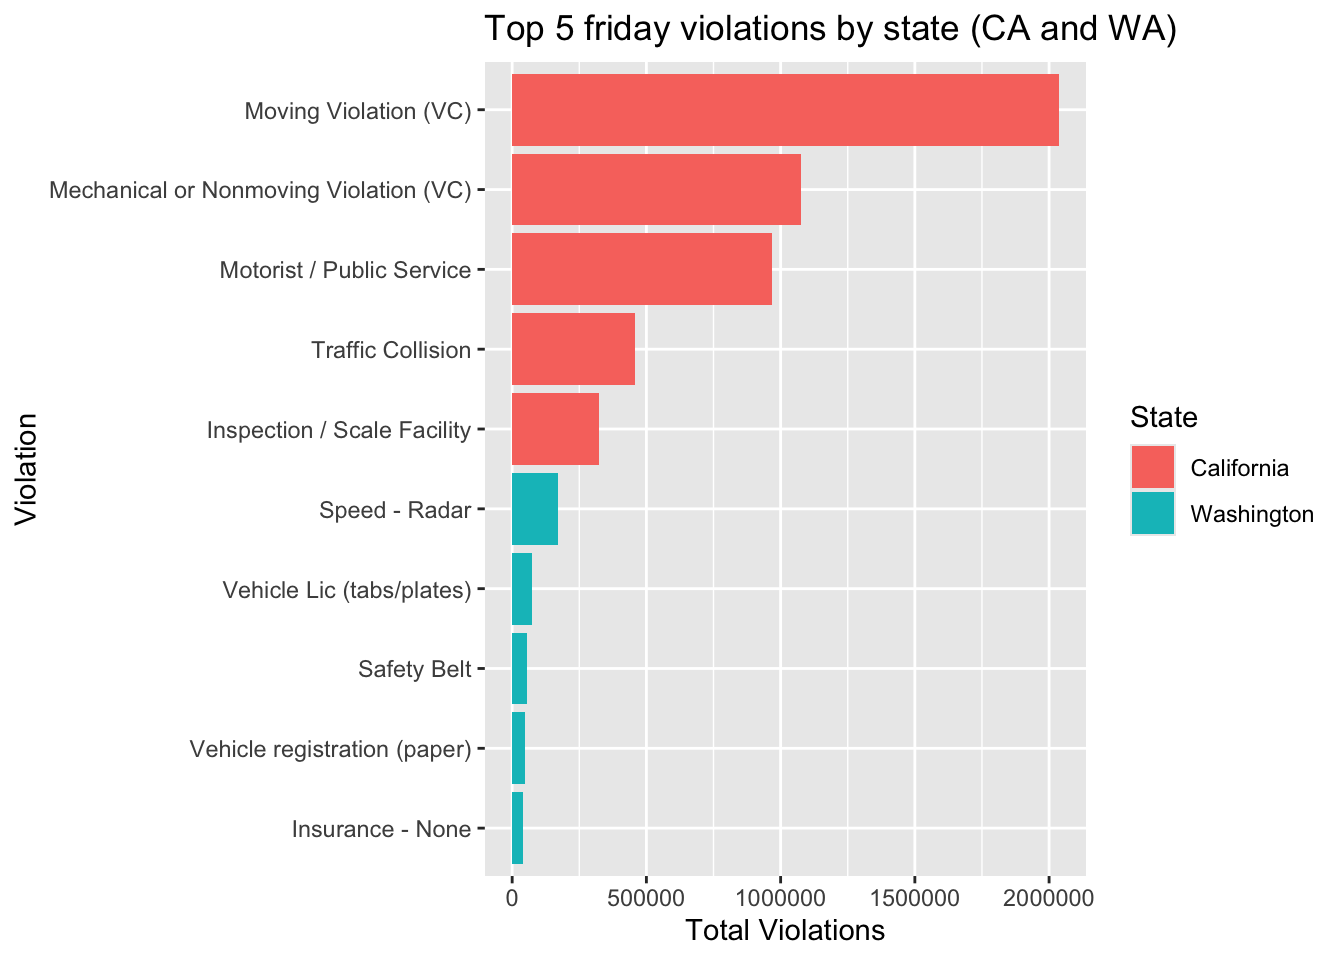
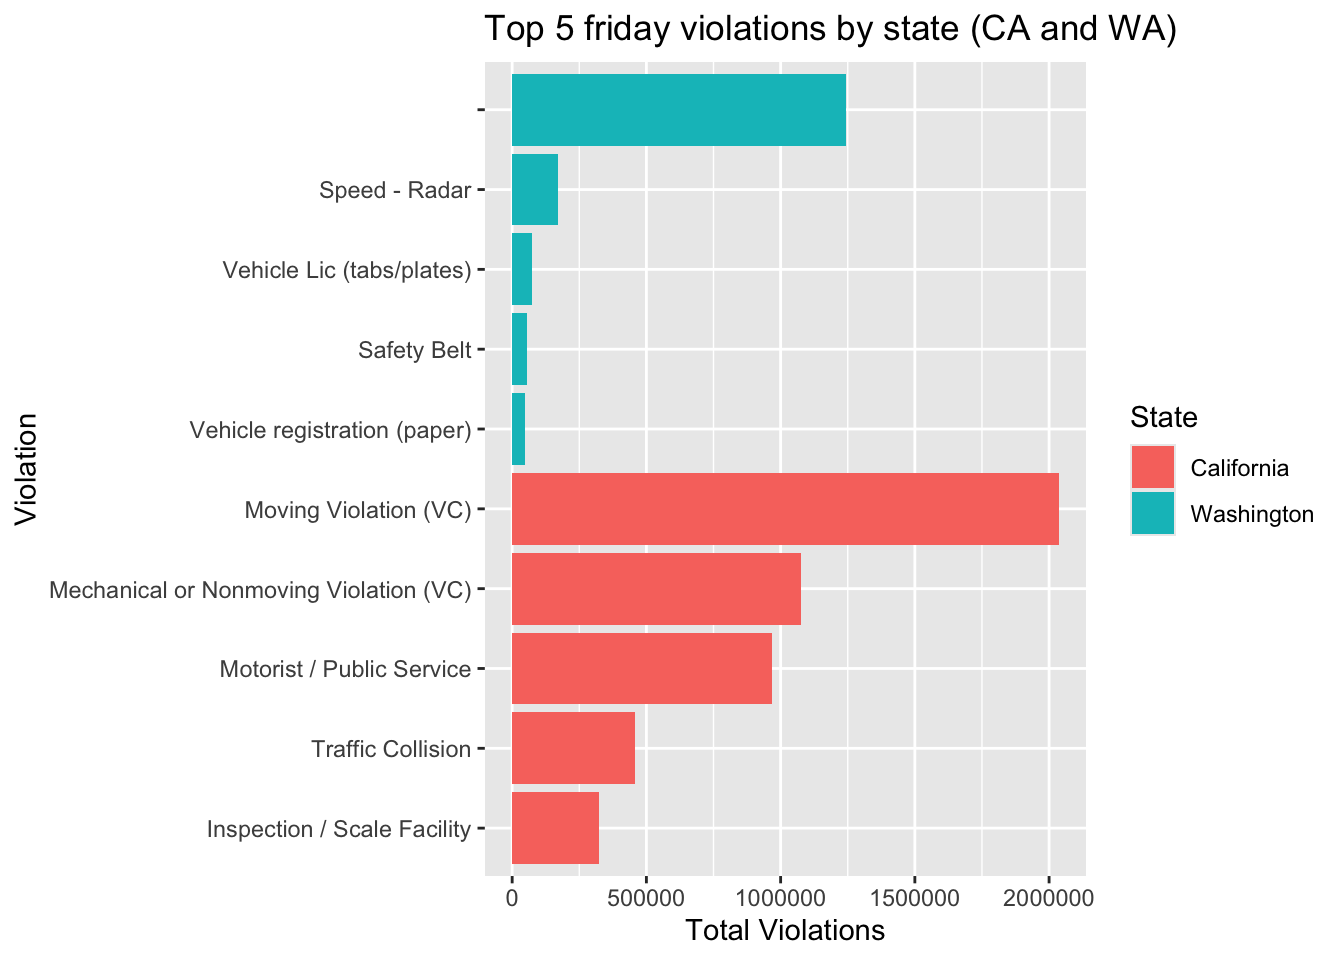
final!! actually final version!

diff --git a/docs/traffic_stops.html b/docs/traffic_stops.html
@@ -1025,41 +1025,36 @@ pre > code.sourceCode > span > a:first-child::before { text-decoration: underlin
 </div>
 </div>
 <p>With all of this information, we now need to join these 3 tables so we can do our west coast analysis.</p>
-<div class="cell">
-<div class="code-copy-outer-scaffold"><div class="sourceCode cell-code" id="cb11"><pre class="sourceCode r code-with-copy"><code class="sourceCode r"><span id="cb11-1"><a href="#cb11-1" aria-hidden="true" tabindex="-1"></a>ca_or_wa_weekday <span class="ot">&lt;-</span> <span class="fu">dbGetQuery</span>(</span>
-<span id="cb11-2"><a href="#cb11-2" aria-hidden="true" tabindex="-1"></a>  con_traffic,</span>
-<span id="cb11-3"><a href="#cb11-3" aria-hidden="true" tabindex="-1"></a>  <span class="st">"</span></span>
-<span id="cb11-4"><a href="#cb11-4" aria-hidden="true" tabindex="-1"></a><span class="st">  SELECT</span></span>
-<span id="cb11-5"><a href="#cb11-5" aria-hidden="true" tabindex="-1"></a><span class="st">      'California' AS state,</span></span>
-<span id="cb11-6"><a href="#cb11-6" aria-hidden="true" tabindex="-1"></a><span class="st">      DAYOFWEEK(date) AS weekday,</span></span>
-<span id="cb11-7"><a href="#cb11-7" aria-hidden="true" tabindex="-1"></a><span class="st">      COUNT(*) AS total_stops</span></span>
-<span id="cb11-8"><a href="#cb11-8" aria-hidden="true" tabindex="-1"></a><span class="st">  FROM ca_statewide_2023_01_26</span></span>
-<span id="cb11-9"><a href="#cb11-9" aria-hidden="true" tabindex="-1"></a><span class="st">  WHERE type = 'vehicular'</span></span>
-<span id="cb11-10"><a href="#cb11-10" aria-hidden="true" tabindex="-1"></a><span class="st">  GROUP BY state, DAYOFWEEK(date)</span></span>
-<span id="cb11-11"><a href="#cb11-11" aria-hidden="true" tabindex="-1"></a></span>
-<span id="cb11-12"><a href="#cb11-12" aria-hidden="true" tabindex="-1"></a><span class="st">  UNION ALL</span></span>
-<span id="cb11-13"><a href="#cb11-13" aria-hidden="true" tabindex="-1"></a></span>
-<span id="cb11-14"><a href="#cb11-14" aria-hidden="true" tabindex="-1"></a><span class="st">  SELECT</span></span>
-<span id="cb11-15"><a href="#cb11-15" aria-hidden="true" tabindex="-1"></a><span class="st">      'Oregon' AS state,</span></span>
-<span id="cb11-16"><a href="#cb11-16" aria-hidden="true" tabindex="-1"></a><span class="st">      DAYOFWEEK(date) AS weekday,</span></span>
-<span id="cb11-17"><a href="#cb11-17" aria-hidden="true" tabindex="-1"></a><span class="st">      COUNT(*) AS total_stops</span></span>
-<span id="cb11-18"><a href="#cb11-18" aria-hidden="true" tabindex="-1"></a><span class="st">  FROM or_statewide_2020_04_01</span></span>
-<span id="cb11-19"><a href="#cb11-19" aria-hidden="true" tabindex="-1"></a><span class="st">  WHERE type = 'vehicular'</span></span>
-<span id="cb11-20"><a href="#cb11-20" aria-hidden="true" tabindex="-1"></a><span class="st">  GROUP BY state, DAYOFWEEK(date)</span></span>
-<span id="cb11-21"><a href="#cb11-21" aria-hidden="true" tabindex="-1"></a></span>
-<span id="cb11-22"><a href="#cb11-22" aria-hidden="true" tabindex="-1"></a><span class="st">  UNION ALL</span></span>
-<span id="cb11-23"><a href="#cb11-23" aria-hidden="true" tabindex="-1"></a></span>
-<span id="cb11-24"><a href="#cb11-24" aria-hidden="true" tabindex="-1"></a><span class="st">  SELECT</span></span>
-<span id="cb11-25"><a href="#cb11-25" aria-hidden="true" tabindex="-1"></a><span class="st">      'Washington' AS state,</span></span>
-<span id="cb11-26"><a href="#cb11-26" aria-hidden="true" tabindex="-1"></a><span class="st">      DAYOFWEEK(date) AS weekday,</span></span>
-<span id="cb11-27"><a href="#cb11-27" aria-hidden="true" tabindex="-1"></a><span class="st">      COUNT(*) AS total_stops</span></span>
-<span id="cb11-28"><a href="#cb11-28" aria-hidden="true" tabindex="-1"></a><span class="st">  FROM wa_statewide_2020_04_01</span></span>
-<span id="cb11-29"><a href="#cb11-29" aria-hidden="true" tabindex="-1"></a><span class="st">  WHERE type = 'vehicular'</span></span>
-<span id="cb11-30"><a href="#cb11-30" aria-hidden="true" tabindex="-1"></a><span class="st">  GROUP BY state, DAYOFWEEK(date)</span></span>
-<span id="cb11-31"><a href="#cb11-31" aria-hidden="true" tabindex="-1"></a></span>
-<span id="cb11-32"><a href="#cb11-32" aria-hidden="true" tabindex="-1"></a><span class="st">  ORDER BY weekday, state;</span></span>
-<span id="cb11-33"><a href="#cb11-33" aria-hidden="true" tabindex="-1"></a><span class="st">  "</span></span>
-<span id="cb11-34"><a href="#cb11-34" aria-hidden="true" tabindex="-1"></a>)</span></code></pre></div><button title="Copy to Clipboard" class="code-copy-button"><i class="bi"></i></button></div>
+<div class="cell" data-output.var="ca_or_wa_weekday">
+<div class="code-copy-outer-scaffold"><div class="sourceCode cell-code" id="cb11"><pre class="sourceCode sql code-with-copy"><code class="sourceCode sql"><span id="cb11-1"><a href="#cb11-1" aria-hidden="true" tabindex="-1"></a>  <span class="kw">SELECT</span></span>
+<span id="cb11-2"><a href="#cb11-2" aria-hidden="true" tabindex="-1"></a>      <span class="st">'California'</span> <span class="kw">AS</span> state,</span>
+<span id="cb11-3"><a href="#cb11-3" aria-hidden="true" tabindex="-1"></a>      DAYOFWEEK(<span class="dt">date</span>) <span class="kw">AS</span> weekday,</span>
+<span id="cb11-4"><a href="#cb11-4" aria-hidden="true" tabindex="-1"></a>      <span class="fu">COUNT</span>(<span class="op">*</span>) <span class="kw">AS</span> total_stops</span>
+<span id="cb11-5"><a href="#cb11-5" aria-hidden="true" tabindex="-1"></a>  <span class="kw">FROM</span> ca_statewide_2023_01_26</span>
+<span id="cb11-6"><a href="#cb11-6" aria-hidden="true" tabindex="-1"></a>  <span class="kw">WHERE</span> <span class="kw">type</span> <span class="op">=</span> <span class="st">'vehicular'</span></span>
+<span id="cb11-7"><a href="#cb11-7" aria-hidden="true" tabindex="-1"></a>  <span class="kw">GROUP</span> <span class="kw">BY</span> state, DAYOFWEEK(<span class="dt">date</span>)</span>
+<span id="cb11-8"><a href="#cb11-8" aria-hidden="true" tabindex="-1"></a></span>
+<span id="cb11-9"><a href="#cb11-9" aria-hidden="true" tabindex="-1"></a>  <span class="kw">UNION</span> <span class="kw">ALL</span></span>
+<span id="cb11-10"><a href="#cb11-10" aria-hidden="true" tabindex="-1"></a></span>
+<span id="cb11-11"><a href="#cb11-11" aria-hidden="true" tabindex="-1"></a>  <span class="kw">SELECT</span></span>
+<span id="cb11-12"><a href="#cb11-12" aria-hidden="true" tabindex="-1"></a>      <span class="st">'Oregon'</span> <span class="kw">AS</span> state,</span>
+<span id="cb11-13"><a href="#cb11-13" aria-hidden="true" tabindex="-1"></a>      DAYOFWEEK(<span class="dt">date</span>) <span class="kw">AS</span> weekday,</span>
+<span id="cb11-14"><a href="#cb11-14" aria-hidden="true" tabindex="-1"></a>      <span class="fu">COUNT</span>(<span class="op">*</span>) <span class="kw">AS</span> total_stops</span>
+<span id="cb11-15"><a href="#cb11-15" aria-hidden="true" tabindex="-1"></a>  <span class="kw">FROM</span> or_statewide_2020_04_01</span>
+<span id="cb11-16"><a href="#cb11-16" aria-hidden="true" tabindex="-1"></a>  <span class="kw">WHERE</span> <span class="kw">type</span> <span class="op">=</span> <span class="st">'vehicular'</span></span>
+<span id="cb11-17"><a href="#cb11-17" aria-hidden="true" tabindex="-1"></a>  <span class="kw">GROUP</span> <span class="kw">BY</span> state, DAYOFWEEK(<span class="dt">date</span>)</span>
+<span id="cb11-18"><a href="#cb11-18" aria-hidden="true" tabindex="-1"></a></span>
+<span id="cb11-19"><a href="#cb11-19" aria-hidden="true" tabindex="-1"></a>  <span class="kw">UNION</span> <span class="kw">ALL</span></span>
+<span id="cb11-20"><a href="#cb11-20" aria-hidden="true" tabindex="-1"></a></span>
+<span id="cb11-21"><a href="#cb11-21" aria-hidden="true" tabindex="-1"></a>  <span class="kw">SELECT</span></span>
+<span id="cb11-22"><a href="#cb11-22" aria-hidden="true" tabindex="-1"></a>      <span class="st">'Washington'</span> <span class="kw">AS</span> state,</span>
+<span id="cb11-23"><a href="#cb11-23" aria-hidden="true" tabindex="-1"></a>      DAYOFWEEK(<span class="dt">date</span>) <span class="kw">AS</span> weekday,</span>
+<span id="cb11-24"><a href="#cb11-24" aria-hidden="true" tabindex="-1"></a>      <span class="fu">COUNT</span>(<span class="op">*</span>) <span class="kw">AS</span> total_stops</span>
+<span id="cb11-25"><a href="#cb11-25" aria-hidden="true" tabindex="-1"></a>  <span class="kw">FROM</span> wa_statewide_2020_04_01</span>
+<span id="cb11-26"><a href="#cb11-26" aria-hidden="true" tabindex="-1"></a>  <span class="kw">WHERE</span> <span class="kw">type</span> <span class="op">=</span> <span class="st">'vehicular'</span></span>
+<span id="cb11-27"><a href="#cb11-27" aria-hidden="true" tabindex="-1"></a>  <span class="kw">GROUP</span> <span class="kw">BY</span> state, DAYOFWEEK(<span class="dt">date</span>)</span>
+<span id="cb11-28"><a href="#cb11-28" aria-hidden="true" tabindex="-1"></a></span>
+<span id="cb11-29"><a href="#cb11-29" aria-hidden="true" tabindex="-1"></a>  <span class="kw">ORDER</span> <span class="kw">BY</span> weekday, state;</span></code></pre></div><button title="Copy to Clipboard" class="code-copy-button"><i class="bi"></i></button></div>
 </div>
 <p>Now, we can plot this information!</p>
 <div class="cell">
@@ -1072,14 +1067,13 @@ pre > code.sourceCode > span > a:first-child::before { text-decoration: underlin
 <span id="cb12-7"><a href="#cb12-7" aria-hidden="true" tabindex="-1"></a>  <span class="fu">geom_line</span>(<span class="at">linewidth =</span> <span class="dv">1</span>) <span class="sc">+</span></span>
 <span id="cb12-8"><a href="#cb12-8" aria-hidden="true" tabindex="-1"></a>  <span class="fu">geom_point</span>(<span class="at">size =</span> <span class="dv">2</span>) <span class="sc">+</span></span>
 <span id="cb12-9"><a href="#cb12-9" aria-hidden="true" tabindex="-1"></a>  <span class="fu">scale_x_continuous</span>(<span class="at">breaks =</span> <span class="dv">1</span><span class="sc">:</span><span class="dv">7</span>)<span class="sc">+</span></span>
-<span id="cb12-10"><a href="#cb12-10" aria-hidden="true" tabindex="-1"></a>  <span class="fu">scale_y_continuous</span>(<span class="at">labels =</span> scales<span class="sc">::</span>comma)<span class="sc">+</span></span>
-<span id="cb12-11"><a href="#cb12-11" aria-hidden="true" tabindex="-1"></a>  <span class="fu">labs</span>(</span>
-<span id="cb12-12"><a href="#cb12-12" aria-hidden="true" tabindex="-1"></a>    <span class="at">title =</span> <span class="st">"Traffic Stops by Day of Week (CA, OR, WA)"</span>,</span>
-<span id="cb12-13"><a href="#cb12-13" aria-hidden="true" tabindex="-1"></a>        <span class="at">subtitle =</span> <span class="st">"Where 1 = Sun, 2 = Mon, 3 = Tue, 4 = Wed, 5 = Thu, 6 = Fri, 7 = Sat"</span>,</span>
-<span id="cb12-14"><a href="#cb12-14" aria-hidden="true" tabindex="-1"></a>    <span class="at">x =</span> <span class="st">"Day of Week"</span>,</span>
-<span id="cb12-15"><a href="#cb12-15" aria-hidden="true" tabindex="-1"></a>    <span class="at">y =</span> <span class="st">"Total Stops"</span>,</span>
-<span id="cb12-16"><a href="#cb12-16" aria-hidden="true" tabindex="-1"></a>    <span class="at">color =</span> <span class="st">"State"</span></span>
-<span id="cb12-17"><a href="#cb12-17" aria-hidden="true" tabindex="-1"></a>  )</span></code></pre></div><button title="Copy to Clipboard" class="code-copy-button"><i class="bi"></i></button></div>
+<span id="cb12-10"><a href="#cb12-10" aria-hidden="true" tabindex="-1"></a>  <span class="fu">labs</span>(</span>
+<span id="cb12-11"><a href="#cb12-11" aria-hidden="true" tabindex="-1"></a>    <span class="at">title =</span> <span class="st">"Traffic Stops by Day of Week (CA, OR, WA)"</span>,</span>
+<span id="cb12-12"><a href="#cb12-12" aria-hidden="true" tabindex="-1"></a>        <span class="at">subtitle =</span> <span class="st">"1 = Sun, 2 = Mon, 3 = Tue, 4 = Wed, 5 = Thu, 6 = Fri, 7 = Sat"</span>,</span>
+<span id="cb12-13"><a href="#cb12-13" aria-hidden="true" tabindex="-1"></a>    <span class="at">x =</span> <span class="st">"Day of Week"</span>,</span>
+<span id="cb12-14"><a href="#cb12-14" aria-hidden="true" tabindex="-1"></a>    <span class="at">y =</span> <span class="st">"Total Stops"</span>,</span>
+<span id="cb12-15"><a href="#cb12-15" aria-hidden="true" tabindex="-1"></a>    <span class="at">color =</span> <span class="st">"State"</span></span>
+<span id="cb12-16"><a href="#cb12-16" aria-hidden="true" tabindex="-1"></a>  )</span></code></pre></div><button title="Copy to Clipboard" class="code-copy-button"><i class="bi"></i></button></div>
 <div class="cell-output-display">
 <div>
 <figure class="figure">
@@ -1088,46 +1082,41 @@ pre > code.sourceCode > span > a:first-child::before { text-decoration: underlin
 </div>
 </div>
 </div>
-<p>As expected (and this is true for all states considered), out of all weekdays, Friday has the highest traffic stops by enforcement agents.</p>
+<p>As expected (and this is true for all states considered), out of all weekdays, Friday has the highest traffic stops by enforcement agents. This might be because people drive more on Fridays since not only do they go to work, but also go home and then go to other places for leisure. It is hard to say that there is a similar trend going on the other way that is true for all states though (meaning, the day of the week with the lowest traffic stops by enforcement agents!) as there is more variability in this scenario.</p>
 <p>Now that we have information on the days of the week, let’s be even more precise: what are the most common violations that happen during fridays across these states? Unfortunately, the variable “violations” is only present in the tables for Washignton and California, so we can’t use Oregon here.</p>
 <p>First, we need to once more join the tables.</p>
-<div class="cell">
-<div class="code-copy-outer-scaffold"><div class="sourceCode cell-code" id="cb13"><pre class="sourceCode r code-with-copy"><code class="sourceCode r"><span id="cb13-1"><a href="#cb13-1" aria-hidden="true" tabindex="-1"></a>friday_violations <span class="ot">&lt;-</span> <span class="fu">dbGetQuery</span>(</span>
-<span id="cb13-2"><a href="#cb13-2" aria-hidden="true" tabindex="-1"></a>  con_traffic,</span>
-<span id="cb13-3"><a href="#cb13-3" aria-hidden="true" tabindex="-1"></a>  <span class="st">"</span></span>
-<span id="cb13-4"><a href="#cb13-4" aria-hidden="true" tabindex="-1"></a><span class="st">  SELECT</span></span>
-<span id="cb13-5"><a href="#cb13-5" aria-hidden="true" tabindex="-1"></a><span class="st">      state,</span></span>
-<span id="cb13-6"><a href="#cb13-6" aria-hidden="true" tabindex="-1"></a><span class="st">      violation,</span></span>
-<span id="cb13-7"><a href="#cb13-7" aria-hidden="true" tabindex="-1"></a><span class="st">      COUNT(*) AS total_violations</span></span>
-<span id="cb13-8"><a href="#cb13-8" aria-hidden="true" tabindex="-1"></a><span class="st">  FROM (</span></span>
-<span id="cb13-9"><a href="#cb13-9" aria-hidden="true" tabindex="-1"></a><span class="st">      SELECT </span></span>
-<span id="cb13-10"><a href="#cb13-10" aria-hidden="true" tabindex="-1"></a><span class="st">          'California' AS state,</span></span>
-<span id="cb13-11"><a href="#cb13-11" aria-hidden="true" tabindex="-1"></a><span class="st">          violation,</span></span>
-<span id="cb13-12"><a href="#cb13-12" aria-hidden="true" tabindex="-1"></a><span class="st">          date</span></span>
-<span id="cb13-13"><a href="#cb13-13" aria-hidden="true" tabindex="-1"></a><span class="st">      FROM ca_statewide_2023_01_26</span></span>
-<span id="cb13-14"><a href="#cb13-14" aria-hidden="true" tabindex="-1"></a><span class="st">      WHERE violation IS NOT NULL AND violation &lt;&gt; ''</span></span>
-<span id="cb13-15"><a href="#cb13-15" aria-hidden="true" tabindex="-1"></a></span>
-<span id="cb13-16"><a href="#cb13-16" aria-hidden="true" tabindex="-1"></a><span class="st">      UNION ALL</span></span>
-<span id="cb13-17"><a href="#cb13-17" aria-hidden="true" tabindex="-1"></a></span>
-<span id="cb13-18"><a href="#cb13-18" aria-hidden="true" tabindex="-1"></a><span class="st">      SELECT </span></span>
-<span id="cb13-19"><a href="#cb13-19" aria-hidden="true" tabindex="-1"></a><span class="st">          'Washington' AS state,</span></span>
-<span id="cb13-20"><a href="#cb13-20" aria-hidden="true" tabindex="-1"></a><span class="st">          violation,</span></span>
-<span id="cb13-21"><a href="#cb13-21" aria-hidden="true" tabindex="-1"></a><span class="st">          date</span></span>
-<span id="cb13-22"><a href="#cb13-22" aria-hidden="true" tabindex="-1"></a><span class="st">      FROM wa_statewide_2020_04_01</span></span>
-<span id="cb13-23"><a href="#cb13-23" aria-hidden="true" tabindex="-1"></a><span class="st">      WHERE violation IS NOT NULL AND violation &lt;&gt; ''</span></span>
-<span id="cb13-24"><a href="#cb13-24" aria-hidden="true" tabindex="-1"></a><span class="st">  ) AS combined</span></span>
-<span id="cb13-25"><a href="#cb13-25" aria-hidden="true" tabindex="-1"></a><span class="st">  WHERE DAYOFWEEK(date) = 6</span></span>
-<span id="cb13-26"><a href="#cb13-26" aria-hidden="true" tabindex="-1"></a><span class="st">  GROUP BY state, violation</span></span>
-<span id="cb13-27"><a href="#cb13-27" aria-hidden="true" tabindex="-1"></a><span class="st">  ORDER BY state, total_violations DESC;</span></span>
-<span id="cb13-28"><a href="#cb13-28" aria-hidden="true" tabindex="-1"></a><span class="st">  "</span></span>
-<span id="cb13-29"><a href="#cb13-29" aria-hidden="true" tabindex="-1"></a>)</span></code></pre></div><button title="Copy to Clipboard" class="code-copy-button"><i class="bi"></i></button></div>
+<div class="cell" data-output.var="friday_violations">
+<div class="code-copy-outer-scaffold"><div class="sourceCode cell-code" id="cb13"><pre class="sourceCode sql code-with-copy"><code class="sourceCode sql"><span id="cb13-1"><a href="#cb13-1" aria-hidden="true" tabindex="-1"></a>  <span class="kw">SELECT</span></span>
+<span id="cb13-2"><a href="#cb13-2" aria-hidden="true" tabindex="-1"></a>      state,</span>
+<span id="cb13-3"><a href="#cb13-3" aria-hidden="true" tabindex="-1"></a>      violation,</span>
+<span id="cb13-4"><a href="#cb13-4" aria-hidden="true" tabindex="-1"></a>      <span class="fu">COUNT</span>(<span class="op">*</span>) <span class="kw">AS</span> total_violations</span>
+<span id="cb13-5"><a href="#cb13-5" aria-hidden="true" tabindex="-1"></a>  <span class="kw">FROM</span> (</span>
+<span id="cb13-6"><a href="#cb13-6" aria-hidden="true" tabindex="-1"></a>      <span class="kw">SELECT</span> </span>
+<span id="cb13-7"><a href="#cb13-7" aria-hidden="true" tabindex="-1"></a>          <span class="st">'California'</span> <span class="kw">AS</span> state,</span>
+<span id="cb13-8"><a href="#cb13-8" aria-hidden="true" tabindex="-1"></a>          violation,</span>
+<span id="cb13-9"><a href="#cb13-9" aria-hidden="true" tabindex="-1"></a>          <span class="dt">date</span></span>
+<span id="cb13-10"><a href="#cb13-10" aria-hidden="true" tabindex="-1"></a>      <span class="kw">FROM</span> ca_statewide_2023_01_26</span>
+<span id="cb13-11"><a href="#cb13-11" aria-hidden="true" tabindex="-1"></a>      <span class="kw">WHERE</span> violation <span class="kw">IS</span> <span class="kw">NOT</span> <span class="kw">NULL</span> </span>
+<span id="cb13-12"><a href="#cb13-12" aria-hidden="true" tabindex="-1"></a></span>
+<span id="cb13-13"><a href="#cb13-13" aria-hidden="true" tabindex="-1"></a>      <span class="kw">UNION</span> <span class="kw">ALL</span></span>
+<span id="cb13-14"><a href="#cb13-14" aria-hidden="true" tabindex="-1"></a></span>
+<span id="cb13-15"><a href="#cb13-15" aria-hidden="true" tabindex="-1"></a>      <span class="kw">SELECT</span> </span>
+<span id="cb13-16"><a href="#cb13-16" aria-hidden="true" tabindex="-1"></a>          <span class="st">'Washington'</span> <span class="kw">AS</span> state,</span>
+<span id="cb13-17"><a href="#cb13-17" aria-hidden="true" tabindex="-1"></a>          violation,</span>
+<span id="cb13-18"><a href="#cb13-18" aria-hidden="true" tabindex="-1"></a>          <span class="dt">date</span></span>
+<span id="cb13-19"><a href="#cb13-19" aria-hidden="true" tabindex="-1"></a>      <span class="kw">FROM</span> wa_statewide_2020_04_01</span>
+<span id="cb13-20"><a href="#cb13-20" aria-hidden="true" tabindex="-1"></a>      <span class="kw">WHERE</span> violation <span class="kw">IS</span> <span class="kw">NOT</span> <span class="kw">NULL</span> </span>
+<span id="cb13-21"><a href="#cb13-21" aria-hidden="true" tabindex="-1"></a>  ) <span class="kw">AS</span> combined</span>
+<span id="cb13-22"><a href="#cb13-22" aria-hidden="true" tabindex="-1"></a>  <span class="kw">WHERE</span> DAYOFWEEK(<span class="dt">date</span>) <span class="op">=</span> <span class="dv">6</span></span>
+<span id="cb13-23"><a href="#cb13-23" aria-hidden="true" tabindex="-1"></a>  <span class="kw">GROUP</span> <span class="kw">BY</span> state, violation</span>
+<span id="cb13-24"><a href="#cb13-24" aria-hidden="true" tabindex="-1"></a>  <span class="kw">ORDER</span> <span class="kw">BY</span> state, total_violations <span class="kw">DESC</span>;</span></code></pre></div><button title="Copy to Clipboard" class="code-copy-button"><i class="bi"></i></button></div>
 </div>
 <p>Creating the top 5 violations:</p>
 <div class="cell">
 <div class="code-copy-outer-scaffold"><div class="sourceCode cell-code" id="cb14"><pre class="sourceCode r code-with-copy"><code class="sourceCode r"><span id="cb14-1"><a href="#cb14-1" aria-hidden="true" tabindex="-1"></a>top5_friday_violations <span class="ot">&lt;-</span> friday_violations <span class="sc">|&gt;</span></span>
-<span id="cb14-2"><a href="#cb14-2" aria-hidden="true" tabindex="-1"></a><span class="fu">group_by</span>(state) <span class="sc">|&gt;</span></span>
-<span id="cb14-3"><a href="#cb14-3" aria-hidden="true" tabindex="-1"></a><span class="fu">slice_max</span>(<span class="at">order_by =</span> total_violations, <span class="at">n =</span> <span class="dv">5</span>) <span class="sc">|&gt;</span></span>
-<span id="cb14-4"><a href="#cb14-4" aria-hidden="true" tabindex="-1"></a><span class="fu">ungroup</span>()</span></code></pre></div><button title="Copy to Clipboard" class="code-copy-button"><i class="bi"></i></button></div>
+<span id="cb14-2"><a href="#cb14-2" aria-hidden="true" tabindex="-1"></a>  <span class="fu">group_by</span>(state) <span class="sc">|&gt;</span></span>
+<span id="cb14-3"><a href="#cb14-3" aria-hidden="true" tabindex="-1"></a>  <span class="fu">arrange</span>(<span class="fu">desc</span>(total_violations)) <span class="sc">|&gt;</span></span>
+<span id="cb14-4"><a href="#cb14-4" aria-hidden="true" tabindex="-1"></a>  <span class="fu">slice_head</span>(<span class="at">n =</span> <span class="dv">5</span>)</span></code></pre></div><button title="Copy to Clipboard" class="code-copy-button"><i class="bi"></i></button></div>
 </div>
 <p>Now plotting!</p>
 <div class="cell">
@@ -1163,6 +1152,7 @@ pre > code.sourceCode > span > a:first-child::before { text-decoration: underlin
 </div>
 </div>
 <p>In both states, speed-related violations seem to be the most common, although California dominates it by far (possibly and substantially because of its much greater population). I would suppose part of the reason why however, in both states, speed-related violations are most common are in part because of people going to party at night and other forms of leisure. These factors can lead to more aggressive driving, higher average speeds, and therefore a greater frequency of speed-related stops. Another thing that was interesting to me is the difference in the types of violations between both states: California’s traffic violations seem to be of a more severe/of safety concern reason, whilst for Washington it has to do more with procedural violations (like not having your seatbelt on or your vehicle license!)</p>
+<p>To wrap up this project, let’s summarize what I did. I used SQL to query traffic data in all west coast states (not if you consider Alaska to be one though!). After doing this I summarized vehicular stops by traffic agents by the day of the week across all three states, and found that across them Fridays are the days with the highest vehicular stops by traffic aggents. Then, given the lack of data for Oregon, I focused on the most common violations that occurred in Fridays in both California and Washington, and noticed that the violations in California seem to be of a more safety-concern cause than in Washington, where a lot of violations were associated with procedural violations.</p>
 <div class="cell">
 <div class="code-copy-outer-scaffold"><div class="sourceCode cell-code" id="cb16"><pre class="sourceCode r code-with-copy"><code class="sourceCode r"><span id="cb16-1"><a href="#cb16-1" aria-hidden="true" tabindex="-1"></a><span class="fu">dbDisconnect</span>(con_traffic)</span></code></pre></div><button title="Copy to Clipboard" class="code-copy-button"><i class="bi"></i></button></div>
 </div>
